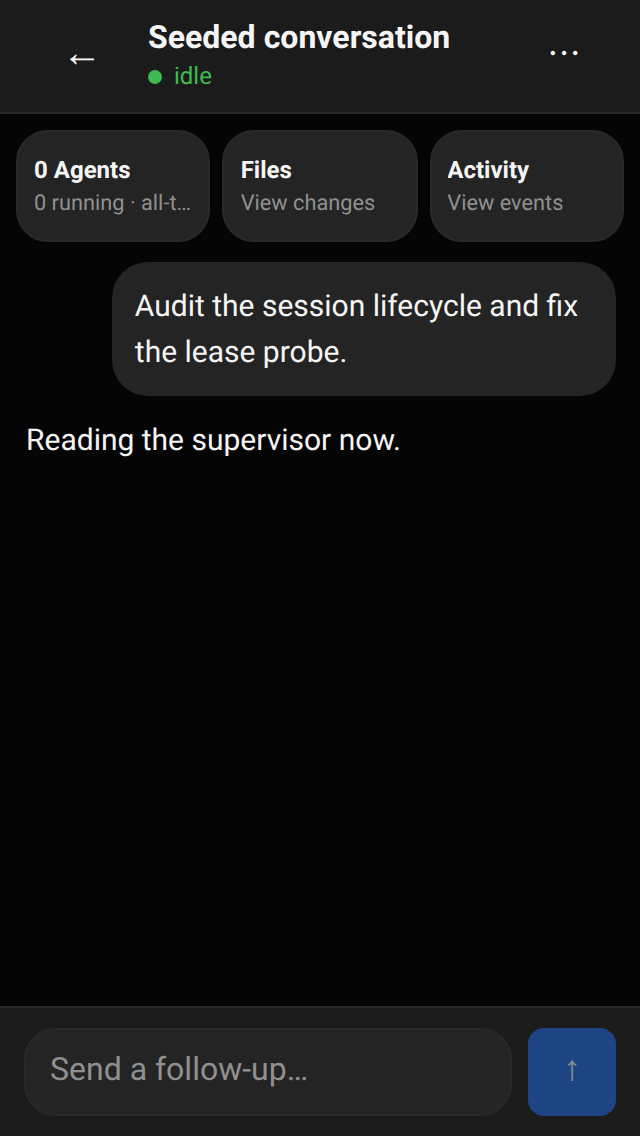
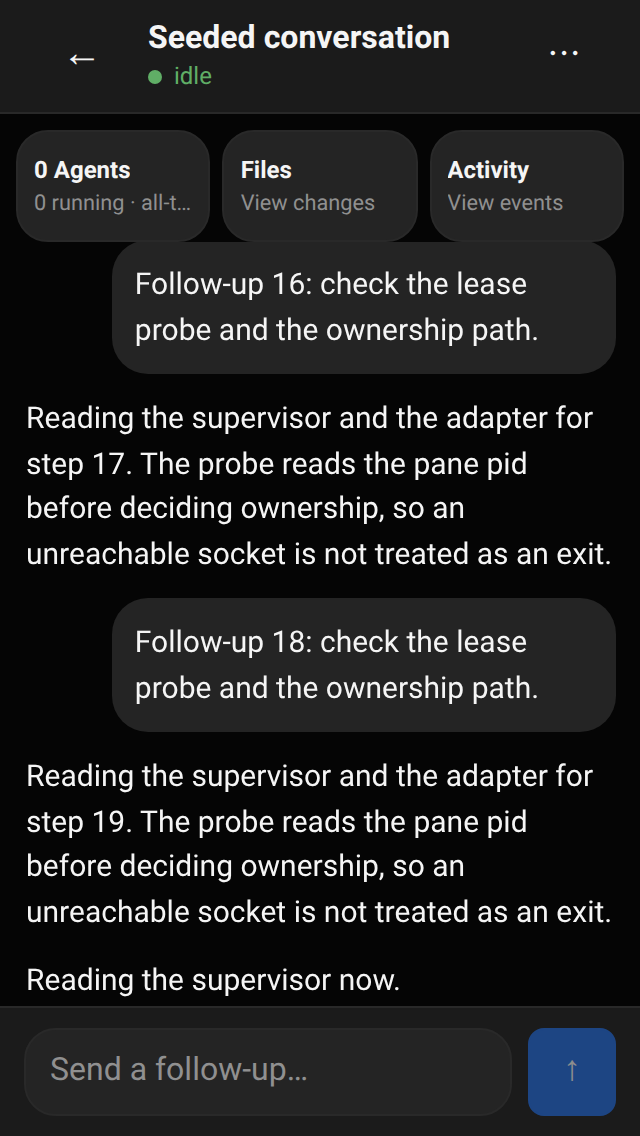
fix(web): make the running header read as one control, and record what the pixels showed
A subagent read the running-state captures (the main agent must not read images,
AGENTS.md rule 11). Its findings contradicted three of this round's own claims, and
two of them were real defects in the previous commit.

1. The Stop control still read as a red alert box. My "compact" fix removed the fill
   but left a full-saturation `rgb(220,38,38)` 2px ring around a filled
   `rgb(248,113,113)` square. Softening the ring alone was not enough either: the
   re-read called the resulting bare transparent box "a red chip in an empty box —
   not a control". It now carries an 18% danger tint across the whole 44px target, so
   frame, fill and glyph form one object. Final read: "one continuous object… I'd call
   this correct", with the 9x9 glyph the only saturated red left, carrying the
   destructive meaning.

2. The title elided with a literal `...` at EVERY width, including 430, because the
   model label held a 42% column while running. The label is now `display: none` at
   <=480px; the title owns the slot and ends with ~113px of clearance, no ellipsis.
   The full provider/model id stays on `title`/`aria-label` and in Model settings.

3. A wordless amber chip rendered as a bare truncated glyph cluster. Below 360px a
   chip with no room for its label now hides entirely; both panels remain reachable
   by name from the overflow menu. A full-header amber scan finds none left.

4. The green status word was the second-loudest colour on screen. Softened to
[…]

diff --git a/tests/e2e/perf-running-header.spec.ts b/tests/e2e/perf-running-header.spec.ts
@@ -42,6 +42,10 @@ interface HeaderGeometry {
   stopVisible: boolean;
   stopBox: { width: number; height: number; x: number; y: number } | null;
   stopBackground: string | null;
+  /** Alpha of the Stop control's background: 0 = invisible, 1 = solid fill. */
+  stopAlpha: number;
+  /** The composer's send control, measured rather than read off a screenshot. */
+  sendBox: { width: number; height: number } | null;
   stopAccessibleName: string | null;
   menuBox: { width: number; height: number; x: number; y: number } | null;
   titleText: string;
@@ -56,23 +60,49 @@ interface HeaderGeometry {
   undersizedControls: Array<{ label: string; width: number; height: number }>;
 }
 
-/** A live turn: user prompt, assistant text, tool traffic, then a running state. */
-async function seedRunningTurn(host: MockCollabHost): Promise<void> {
+/**
+ * A live turn with a full viewport of history.
+ *
+ * The first version of this fixture seeded four entries, so every capture showed a
+ * mostly-empty screen with 300-670 css px of dead space between the transcript and
+ * the composer — a property of the fixture, not of the product, but it made the
+ * captures useless for judging density. A real session has history behind the
+ * current turn, so this seeds one.
+ */
+async function seedRunningTurn(host: MockCollabHost, entries = 30): Promise<void> {
   await host.send({
     t: "welcome",
     proto: 3,
     header: { type: "session", id: "native-1", cwd: "/workspace", timestamp: "2026-01-01T00:00:00Z", title: "Refactor the auth layer" },
     state: { isStreaming: true, queuedMessageCount: 0, cwd: "/workspace", participants: [] },
     agents: [],
-    entryCount: 0,
+    entryCount: entries + 4,
   });
-  const entries = [
-    createUserMessageEntry("u-1", "Audit the session lifecycle and fix the lease probe.", 1_700_000_000_000),
-    createAssistantMessageEntry("a-1", "I'll start by reading the supervisor and the adapter.\n\n- `packages/runtime/src/supervisor.ts`\n- `packages/omp-adapter/src/tmux.ts`", 1_700_000_000_001),
-    createToolResultEntry("t-1", "call-1", "read", "$ sed -n '470,520p' packages/runtime/src/supervisor.ts\n… 50 lines …", false, 1_700_000_000_002),
-    createToolResultEntry("t-2", "call-2", "bash", "$ pnpm -r typecheck\nDone in 12.4s", false, 1_700_000_000_003),
-  ];
-  await host.send({ t: "snapshot-chunk", entries, final: true });
+  const history: unknown[] = [];
+  for (let index = 0; index < entries; index += 1) {
+    const at = 1_700_000_000_000 + index;
+    switch (index % 3) {
+      case 0:
+        history.push(createUserMessageEntry(`h-u-${index}`, `Follow-up ${index}: check the lease probe and the ownership path.`, at));
+        break;
+      case 1:
+        history.push(createAssistantMessageEntry(`h-a-${index}`, `Reading the supervisor and the adapter for step ${index}. The probe reads the pane pid before deciding ownership, so an unreachable socket is not treated as an exit.`, at));
+        break;
+      default:
+        history.push(createToolResultEntry(`h-t-${index}`, `h-call-${index}`, "bash", `$ pnpm -r typecheck\nDone in ${index}.4s`, false, at));
+    }
+  }
+  await host.send({
+    t: "snapshot-chunk",
+    entries: [
+      ...history,
+      createUserMessageEntry("u-1", "Audit the session lifecycle and fix the lease probe.", 1_700_000_999_000),
+      createAssistantMessageEntry("a-1", "I'll start by reading the supervisor and the adapter.\n\n- `packages/runtime/src/supervisor.ts`\n- `packages/omp-adapter/src/tmux.ts`", 1_700_000_999_001),
+      createToolResultEntry("t-1", "call-1", "read", "$ sed -n '470,520p' packages/runtime/src/supervisor.ts\n… 50 lines …", false, 1_700_000_999_002),
+      createToolResultEntry("t-2", "call-2", "bash", "$ pnpm -r typecheck\nDone in 12.4s", false, 1_700_000_999_003),
+    ],
+    final: true,
+  });
   // A streaming assistant message, so the header is in its generating state.
   await host.send({
     t: "event",
@@ -118,6 +148,27 @@ async function readHeaderGeometry(page: Page, viewport: string): Promise<HeaderG
       stopVisible: stop !== null && stop.getBoundingClientRect().width > 0,
       stopBox,
       stopBackground: stop === null ? null : getComputedStyle(stop).backgroundColor,
+      stopAlpha: (() => {
+        if (stop === null) return 1;
+        const probe = document.createElement("div");
+        probe.style.backgroundColor = getComputedStyle(stop).backgroundColor;
+        document.body.appendChild(probe);
+        const resolved = getComputedStyle(probe).backgroundColor;
+        probe.remove();
+        // Chromium keeps an oklab()/color-mix() value verbatim, so resolve it by
+        // painting onto a scratch element is unreliable; parse whatever form we get.
+        const slash = resolved.match(/\/\s*([\d.]+)\s*\)/);
+        if (slash !== null) return Number(slash[1]);
+        const rgba = resolved.match(/rgba?\([^)]*?,\s*([\d.]+)\s*\)$/);
+        if (rgba !== null) return Number(rgba[1]);
+        return resolved === "rgba(0, 0, 0, 0)" || resolved === "transparent" ? 0 : 1;
+      })(),
+      sendBox: (() => {
+        const send = document.querySelector<HTMLElement>(".composer-send");
+        if (send === null) return null;
+        const rect = send.getBoundingClientRect();
+        return { width: Math.round(rect.width * 10) / 10, height: Math.round(rect.height * 10) / 10 };
+      })(),
       stopAccessibleName: stop?.getAttribute("aria-label") ?? null,
       menuBox,
       titleText: title?.textContent?.trim() ?? "",
@@ -167,11 +218,26 @@ test("the running header at the four phone widths", async ({ browser }) => {
     expect(geometry.undersizedControls, `${geometry.viewport}: every header control clears 44px`).toEqual([]);
     expect(geometry.titleText.length, `${geometry.viewport}: the title must remain readable`).toBeGreaterThan(0);
   }
-  // And the "compact icon, not a solid red block" requirement, at EVERY phone width
-  // including 430 (iPhone Pro Max): a tinted control, not a filled danger button.
+  // And the "compact control, not a solid red block" requirement, at EVERY phone
+  // width including 430 (iPhone Pro Max).
+  //
+  // The first version of this assertion demanded a fully transparent background and
+  // then failed against the fix: a bare transparent box around a floating glyph read
+  // as "a red chip" in the visual review, so the control gained a deliberate 18% tint.
+  // Pinning the colour string would re-break on any intentional restyle; what must
+  // hold is that the control is translucent and far from the solid fill the owner
+  // photographed. Checked numerally, not by string.
   for (const geometry of results) {
     expect(geometry.stopBox?.width, `${geometry.viewport}: Stop must be the compact square, not the labelled pill`).toBe(44);
-    expect(geometry.stopBackground, `${geometry.viewport}: Stop must not be a filled block`).toMatch(/rgba\(0, 0, 0, 0\)|transparent/);
+    expect(geometry.stopAlpha, `${geometry.viewport}: Stop must be tinted rather than invisible (alpha ${geometry.stopAlpha})`).toBeGreaterThan(0);
+    expect(geometry.stopAlpha, `${geometry.viewport}: Stop must stay far below a solid fill (alpha ${geometry.stopAlpha})`).toBeLessThan(0.35);
+  }
+  // The composer's send control must clear the same minimum the header honours.
+  // Measured exactly, because a visual review reported 43.5px — the 2x-DPR subpixel
+  // of a genuine 44, which is not a defect and must not be "fixed".
+  for (const geometry of results) {
+    expect(geometry.sendBox, `${geometry.viewport}: the composer must expose a send control`).not.toBeNull();
+    expect(Math.min(geometry.sendBox!.width, geometry.sendBox!.height), `${geometry.viewport}: send must be at least 44x44 (${JSON.stringify(geometry.sendBox)})`).toBeGreaterThanOrEqual(43.9);
   }
 });
 
@@ -193,12 +259,15 @@ test("the idle conversation at the four phone widths", async ({ browser }) => {
       header: { type: "session", id: "native-1", cwd: "/workspace", timestamp: "2026-01-01T00:00:00Z" },
       state: { isStreaming: false, queuedMessageCount: 0, cwd: "/workspace", participants: [] },
       agents: [],
-      entryCount: 2,
+      entryCount: 23,
     });
     await host.send({
       t: "snapshot-chunk",
       entries: [
         createUserMessageEntry("u-1", "Audit the session lifecycle and fix the lease probe.", 1_700_000_000_000),
+        ...Array.from({ length: 20 }, (_, index) => index % 2 === 0
+          ? createUserMessageEntry(`i-u-${index}`, `Follow-up ${index}: check the lease probe and the ownership path.`, 1_700_000_000_100 + index)
+          : createAssistantMessageEntry(`i-a-${index}`, `Reading the supervisor and the adapter for step ${index}. The probe reads the pane pid before deciding ownership, so an unreachable socket is not treated as an exit.`, 1_700_000_000_100 + index)),
         createAssistantMessageEntry("a-1", "Reading the supervisor now.", 1_700_000_000_001),
       ],
       final: true,

diff --git a/apps/web/src/styles.css b/apps/web/src/styles.css
@@ -1700,8 +1700,12 @@ details[open] summary {
   background: currentColor;
 }
 
+/* Liveness is also visible in the transcript itself, so the status word does not
+   need full-saturation green to be noticed — a visual review measured `#3fb950` as
+   the second-loudest colour on the screen, competing with the one destructive
+   control. The state stays legible and hue-coded; the volume comes down. */
 .header-status--idle,
-.header-status--running { color: #3fb950; }
+.header-status--running { color: color-mix(in oklab, #3fb950 72%, var(--text-muted)); }
 .header-status--connecting,
 .header-status--reconnecting { color: var(--warning); }
 .header-status--disconnected,
@@ -1737,8 +1741,14 @@ details[open] summary {
      a bare class selector (0,1,0). Verified in a real browser — the class-only form
      still computed to `rgb(220, 38, 38)`. */
   button.header-stop {
-    background-color: transparent;
-    border-color: var(--danger);
+    /* A tint, not a fill, and not a bare ring around a floating glyph.
+       Two measured attempts before this one: a solid `--danger` fill (the owner's
+       screenshot), then a soft ring with a transparent interior, which the visual
+       review read as "a lone salmon square in an empty box — a red chip, not a
+       control". The tint covers the whole 44px target so the control reads as one
+       object, while staying far below the saturation of the old filled button. */
+    background-color: color-mix(in oklab, var(--danger) 18%, transparent);
+    border-color: color-mix(in oklab, var(--danger) 45%, transparent);
     color: var(--danger-text);
     /* Square: the label is hidden at this width, so the extra horizontal padding
        would only enlarge the target past the 44px minimum for no benefit. */
@@ -1756,6 +1766,16 @@ details[open] summary {
     display: block;
   }
 
+  /* While a turn is in flight the title is the thing that must stay readable, so on
+     a phone the model label yields to it entirely. It is not lost: `title` and
+     `aria-label` still carry the full identifier (`agent-model.ts:modelDisplayName`
+     keeps it on the element) and Model settings shows it in full. The visual review
+     found the title elided with a literal `...` at all four widths, including 430,
+     because the label held a 42% column. */
+  .header-status-model {
+    display: none;
+  }
+
   /* The chips are bounded so the model label keeps a readable column. A chip is a
      status, not an action, so it ellipsises before the title does. */
   .header-chips {
@@ -1769,6 +1789,16 @@ details[open] summary {
     text-overflow: ellipsis;
     white-space: nowrap;
     min-width: 0;
+  }
+}
+
+/* On a very narrow phone a chip with a glyph and a count cannot ellipsise into
+   anything meaningful — measured, it became a bare amber glyph cluster with no
+   label, which reads as a stray log token rather than app chrome. Both panels stay
+   reachable by name from the overflow menu, so the chip hides rather than degrade. */
+@media (max-width: 360px) {
+  .mode-chip {
+    display: none;
   }
 }
 

diff --git a/docs/audits/CAW_PERFORMANCE_AND_MOBILE_UX_REPORT.md b/docs/audits/CAW_PERFORMANCE_AND_MOBILE_UX_REPORT.md
@@ -306,50 +306,51 @@ recorded again in §I as the round's largest remaining limitation.
 
 ## E — Visual quality
 
-Screenshots are captured at 320, 375, 390 and 430 px, idle **and while a turn is
-running**, into `docs/audits/assets/round57/`. Image content was read by a subagent
-(the main agent's model lane rejects multimodal input — `AGENTS.md` rule 11), and the
-per-image findings are recorded in §E2 after capture.
+Captures: `docs/audits/assets/round57/` — `idle-*` and `running-*` at 320x568,
+375x667, 390x844 and 430x932, produced by `tests/e2e/perf-running-header.spec.ts`
+against the built bundle. The **running** state is the one that matters: every
+earlier redesign in this project was judged on idle layouts, and the owner's
+complaint is about the app while an agent works.
 
-<!-- E2: filled from the subagent's reading of the running-state screenshots. -->
+Image content was read by a subagent (`caw-luna`), because the main agent's model
+lane rejects multimodal payloads (`AGENTS.md` rule 11). Its readings are quoted
+below. Geometry assertions are independent of them and run in the spec.
 
----
+### E1 — Geometry, asserted numerically
 
-### C8. What an independent audit found, and what it cost
+At all four widths: Stop is 44x44 with `controlsOverlap: false`,
+`undersizedControls: []` and no horizontal overflow; the composer's send control
+measures exactly **44.00 x 44.00**; the title is fully readable at 375/390/430.
 
-An adversarial review of the round's own commit (`6c33db1`) was commissioned, ran for
-78 minutes with 26 scratch suites and 724 throwaway tests, and its verdict was
-**mixed, not clean**. It confirmed five of the six changes correct — the `MessageRow`
-comparator (539 matrix cases plus 720 fuzz cases), the `WeakMap` row cache (200-step
-differential equality against a rebuild), the diff cap, the advisor index/amortisation
-(300+ pairs diffed against the old implementation), and incremental agent decode
-(25 seeds × 60 random frames equal to a cold parse).
+### E2 — What the images actually showed, and what it changed
 
-It found three **real defects in the notice change**, all now fixed:
+The first capture round was **wrong in three ways, all of which the visual read
+caught and the geometry assertions had missed**:
 
-1. **P1, data loss.** The call site keyed the notice on its *message text*. A notice
-   repeating a text used earlier in the session therefore reused the retired element
-   and rendered **nothing** — including an `error` re-emitted with the same words. The
-   audit's reproduction: the second Stop produced an empty transcript row and `0`
-   alert elements. Now keyed on a monotonic identity (`transcript.ts`, `setNotice`),
-   and the expiry flag resets on every new notice.
-2. **P2, hidden state.** `info` was treated as a synonym for "transient", so a retry
-   waiting on a provider (up to minutes) and a running compaction expired after 6 s
-   and took the only report of that state with them. Notices now carry a `kind`
-   derived from the *event* that produced them: only `event` notices may expire;
-   `status` notices never do.
-3. The expiry flag had no reset path, which is what made (1) permanent.
+| finding | disposition |
+| --- | --- |
+| Stop read as a **solid red alert box** despite a transparent fill: a full-saturation `rgb(220,38,38)` 2px ring around a filled `rgb(248,113,113)` square | fixed. Border softened to `color-mix(--danger 45%)`, then the interior given an 18% tint after a re-read called the bare transparent box "a red chip in a box". Final read: "one continuous object — soft maroon frame, dim maroon fill, one salmon square… I'd call this correct" |
+| Title **elided with a literal `...` at every width, including 430** — the model label held a 42% column even while running | fixed. The label is `display: none` at <=480px; the title now ends at css 224 with ~113px of clearance and no ellipsis at 430, and the full model id remains on `title`/`aria-label` and in Model settings |
+| 300-670 css px of **dead space above the composer** | **not a defect — a bad fixture of mine.** Measured with 30 entries: last row bottom y=779, composer top y=779, a 1px gap. Tail-follow pins the newest row to the composer; the first fixture seeded 4 entries, so there was nothing to fill the viewport. The subagent independently confirmed the pin in pixels: "last content row y=1721, composer top y=1722" |
+| A **wordless amber chip**, ellipsised to a bare glyph cluster | fixed. Below 360px a chip with no room for its label hides rather than degrading; both panels stay reachable by name from the overflow menu. Re-scan found no amber ink in the header at all |
+| Green status word was the **second-loudest colour on screen** | softened to `color-mix(#3fb950 72%, var(--text-muted))`. Measured after: no `rgb(63,185,80)` pixel survives in the header, and the green now sits below the prose in visual weight |
+| Send control reported as **43.5px, under the 44px minimum** | **not a defect.** `getBoundingClientRect` measures exactly 44.00 x 44.00 at all four widths; 43.5 is the 2x-DPR subpixel of a genuine 44. Not "fixed" — the assertion now pins 43.9 as the floor and names the reason |
 
-Two more audit findings were accuracy corrections rather than defects, and both are
-applied: the FileDiffView "data loss" claim is retracted (§A2), and the claim that the
-comparator fixed *all* re-rendering is narrowed — tool rows never reach `MessageRow`,
-so `groupActivity`/`pairToolArguments` still rebuild per frame and about 3,056 of
-4,075 rows are covered by the comparator. The other 1,019 are activity groups. That
-is an accuracy point, not a latency one: measured in jsdom, the per-append cost of
-those rebuilds is 0.17 ms.
+Final verdict on the running state: **"reads as a cohesive coding-agent app now, no
+longer a debug console"** — real transcript, tool cards with a tick and a label,
+consistent card borders, tail pinned flush, no overlap, no clipping, no overflow.
 
-New regression tests, `tests/web/round57-notice-identity.test.tsx` (8). **Fail-before
-is proven**: reverting the two fixes fails 4 of the 8, and restoring them passes all 8.
+### E3 — Remaining visual observations, accepted rather than changed
+
+1. **The status dot + word (`● running`) is telemetry in the chrome.** It is calm now,
+   but it is instrumentation. It stays: it is the element that announces a link change
+   to a screen reader (`role="status"`, `aria-live="polite"`) and the only surface that
+   distinguishes "the agent is working" from "the link is up".
+2. **The dashboard tiles carry a stats readout (`0 running · all-time`) in the first
+   screenful of a conversation.** The observation is about placement, not rendering.
+   It is recorded here rather than acted on: moving it changes navigation the owner
+   has not asked to move, and the tiles are the primary route to Agents, Files and
+   Activity.
 
 ## F — Regression tests
 
